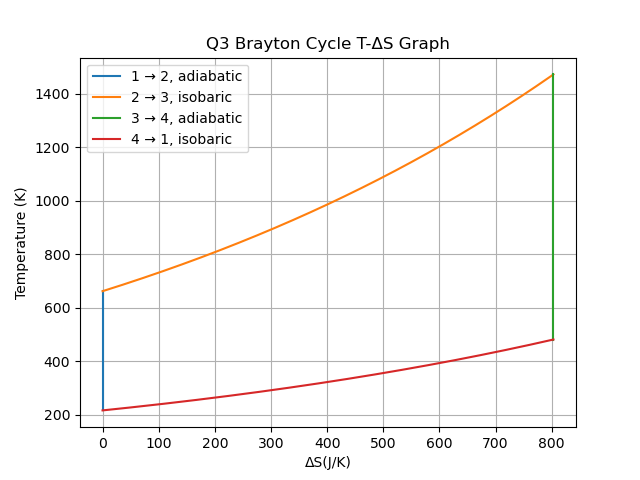
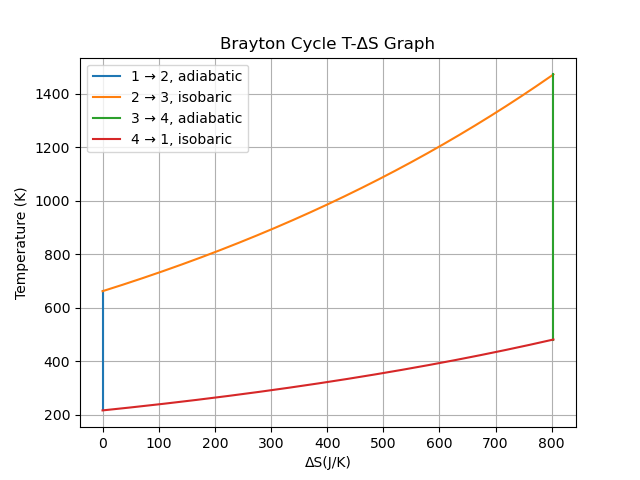
1

Changed region(s): [[0.3125, 0.0625, 0.7188, 0.125]]

diff --git a/python-plot.md b/python-plot.md
@@ -58,7 +58,7 @@ plt.plot(S4, T4, label='4 → 1, isobaric')
 plt.legend(loc='best')
 
 # Plot Temperature vs Entropy
-plt.title("Q3 Brayton Cycle T-ΔS Graph")
+plt.title("Brayton Cycle T-ΔS Graph")
 plt.xlabel("ΔS(J/K)")
 plt.ylabel("Temperature (K)")
 #plt.ylim(-20, 55)

diff --git a/hrm_C.md b/hrm_C.md
@@ -1,0 +1,11 @@
+---
+layout: page
+title: Heart Rate Monitor
+subtitle: Using a EFM8 micrcontroller and circuitry to measure heartrate
+---
+
+
+```C
+
+
+```

diff --git a/assembly.md b/assembly.md
@@ -1,0 +1,5 @@
+---
+layout: page
+title: Assembly Code
+subtitle: Showing the code for a working Alarm Clock
+---
